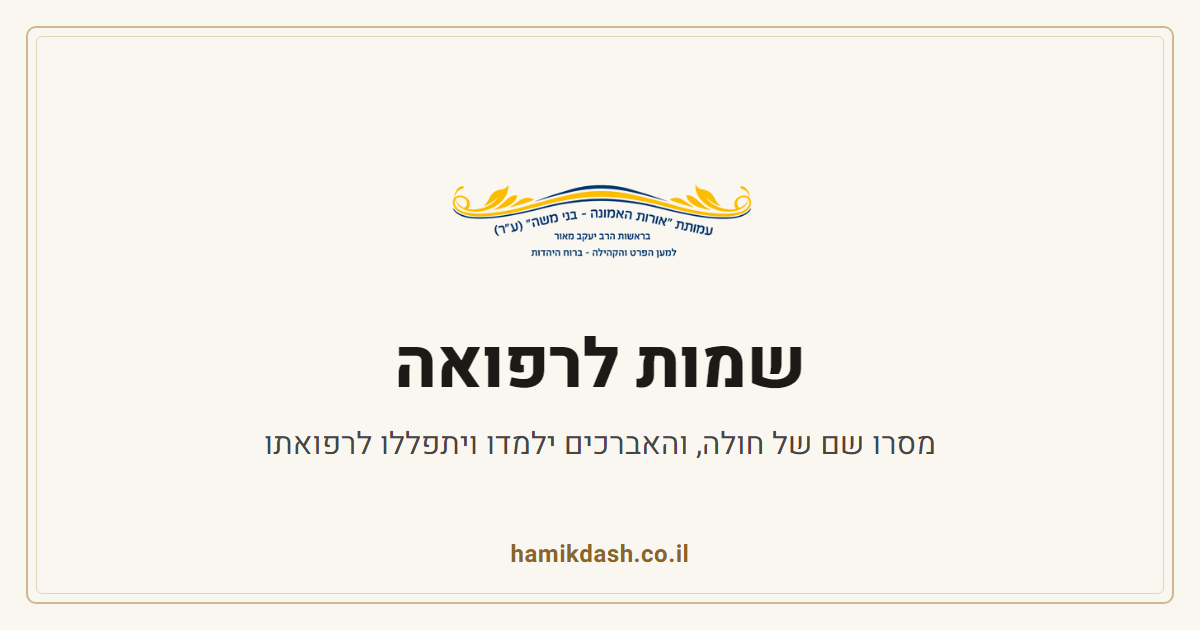
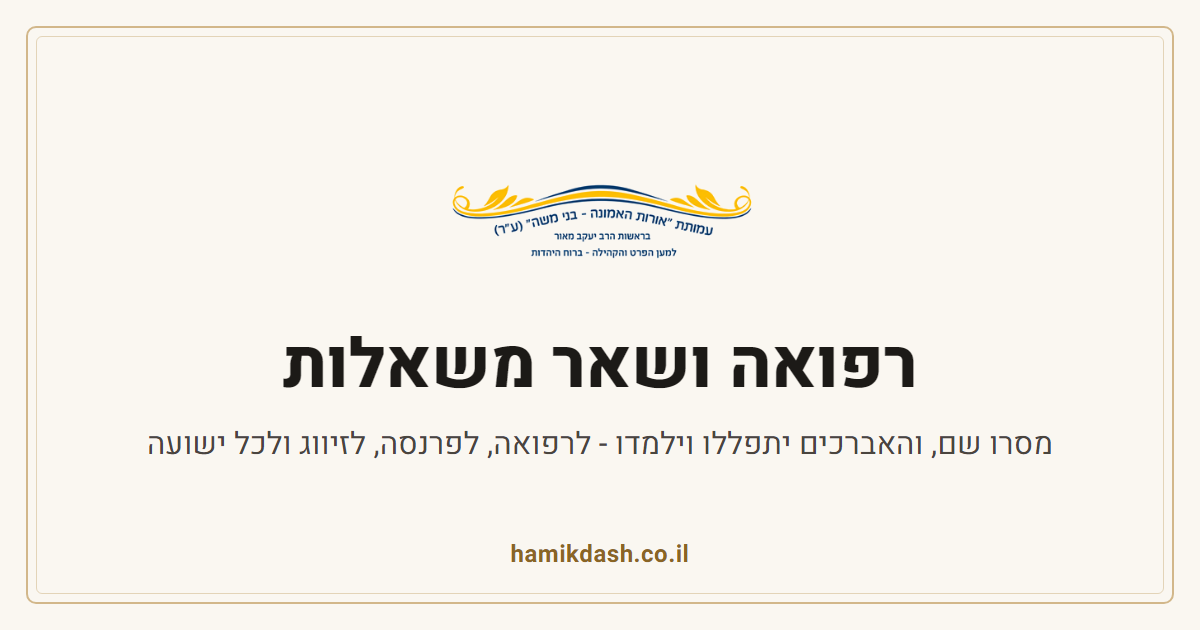
refua: rename to 'refua ve-shear mishalot' in OG image, links and mails

Changed region(s): [[0.2158, 0.5127, 0.7708, 0.6333], [0.1233, 0.6635, 0.8942, 0.7238]]

diff --git a/worker/refua.js b/worker/refua.js
@@ -445,7 +445,7 @@ function removePage(title, body) {
     `background:#fff;border:1px solid #e5ddd0;border-radius:14px;padding:28px 26px}` +
     `h1{font-size:26px;margin:0 0 14px;color:#8a6a1f}a{color:#8a6a1f}</style></head>` +
     `<body><main><h1>${title}</h1>${body}` +
-    `<p style="margin-top:26px"><a href="${PAGE}">חזרה לדף השמות לרפואה</a></p>` +
+    `<p style="margin-top:26px"><a href="${PAGE}">חזרה לדף רפואה ושאר משאלות</a></p>` +
     `</main></body></html>`,
     { status: 200, headers: { "Content-Type": "text/html; charset=utf-8" } }
   );
@@ -502,7 +502,7 @@ export default {
         if ((await hmac(env.REFUA_TOKEN_SECRET, o)) !== s)
           return removePage("הקישור אינו תקין", bad);
         return removePage("הסרת השמות שמסרתם",
-          `<p>בלחיצה על הכפתור יוסרו מרשימת הרפואה והבקשות כל השמות שמסרתם.</p>` +
+          `<p>בלחיצה על הכפתור יוסרו מרשימת רפואה ושאר משאלות כל השמות שמסרתם.</p>` +
           `<form method="post" action="${SELF}/remove?o=${esc(o)}&s=${esc(s)}">` +
           `<button type="submit" style="font:inherit;font-size:18px;font-weight:700;` +
           `background:#8a6a1f;color:#fff;border:0;border-radius:10px;padding:12px 22px;` +
@@ -529,7 +529,7 @@ export default {
         await RENEW.clearSubmitter(env, o);
         await sendMail(env, {
           to: TO, replyTo: REPLY_TO_OWNER,
-          subject: "הסרה מרשימת הרפואה (קישור מהמייל)",
+          subject: "הסרה מרשימת רפואה ושאר משאלות (קישור מהמייל)",
           html: `<div dir="rtl">הוסרו ${before.length - kept.length} שמות של מוסר ${esc(o)}.</div>`,
         });
         return removePage("השמות הוסרו", `<p>הוסרו מהרשימה, ותודה שהודעתם. ` +
@@ -621,7 +621,7 @@ export default {
     const okNotice = await sendMail(env, {
       to: TO,
       replyTo: req.email,
-      subject: (isEmpty ? "הסרה מרשימת הרפואה: " : isFix ? "תיקון רשימת רפואה: " : "שמות לרפואה: ") +
+      subject: (isEmpty ? "הסרה מרשימת רפואה ושאר משאלות: " : isFix ? "תיקון רשימת רפואה ושאר משאלות: " : "רפואה ושאר משאלות: ") +
         `${req.name}${isEmpty ? "" : " (" + cholim.length + ")"}`,
       html: rtlEmail(ownerNoticeHtml(req, cholim, isFix, isEmpty)),
     });
@@ -641,8 +641,8 @@ export default {
     await sendMail(env, {
       to: req.email,
       replyTo: REPLY_TO_OWNER,
-      subject: isEmpty ? "השמות הוסרו מרשימת הרפואה"
-             : isFix ? "הרשימה עודכנה" : "קיבלנו את השמות לרפואה",
+      subject: isEmpty ? "השמות הוסרו מרשימת רפואה ושאר משאלות"
+             : isFix ? "הרשימה עודכנה" : "קיבלנו את השמות - רפואה ושאר משאלות",
       html: rtlEmail(thanksHtml(req.name, cholim, isFix, isEmpty, await removeUrlFor(env, ownerKey),
         await RENEW.editUrlFor(env, ownerKey))),
     });

diff --git a/worker/tefilot.js b/worker/tefilot.js
@@ -446,7 +446,7 @@ function removePage(title, body) {
     `background:#fff;border:1px solid #e5ddd0;border-radius:14px;padding:28px 26px}` +
     `h1{font-size:26px;margin:0 0 14px;color:#8a6a1f}a{color:#8a6a1f}</style></head>` +
     `<body><main><h1>${title}</h1>${body}` +
-    `<p style="margin-top:26px"><a href="${PAGE}">חזרה לדף השמות לרפואה</a></p>` +
+    `<p style="margin-top:26px"><a href="${PAGE}">חזרה לדף רפואה ושאר משאלות</a></p>` +
     `</main></body></html>`,
     { status: 200, headers: { "Content-Type": "text/html; charset=utf-8" } }
   );
@@ -506,7 +506,7 @@ export default {
         await RENEW.clearSubmitter(env, o);
         await sendMail(env, {
           to: TO, replyTo: REPLY_TO_OWNER,
-          subject: "הסרה מרשימת הרפואה (קישור מהמייל)",
+          subject: "הסרה מרשימת רפואה ושאר משאלות (קישור מהמייל)",
           html: `<div dir="rtl">הוסרו ${before.length - kept.length} שמות של מוסר ${esc(o)}.</div>`,
         });
         return removePage("השמות הוסרו", `<p>הוסרו מהרשימה, ותודה שהודעתם. ` +
@@ -604,7 +604,7 @@ export default {
     const okNotice = await sendMail(env, {
       to: TO,
       replyTo: req.email,
-      subject: (isEmpty ? "הסרה מרשימת הרפואה: " : isFix ? "תיקון רשימת רפואה: " : "שמות לרפואה: ") +
+      subject: (isEmpty ? "הסרה מרשימת רפואה ושאר משאלות: " : isFix ? "תיקון רשימת רפואה ושאר משאלות: " : "רפואה ושאר משאלות: ") +
         `${req.name}${isEmpty ? "" : " (" + bakashot.length + ")"}`,
       html: rtlEmail(ownerNoticeHtml(req, bakashot, isFix, isEmpty)),
     });
@@ -624,8 +624,8 @@ export default {
     await sendMail(env, {
       to: req.email,
       replyTo: REPLY_TO_OWNER,
-      subject: isEmpty ? "השמות הוסרו מרשימת הרפואה"
-             : isFix ? "הרשימה עודכנה" : "קיבלנו את השמות לרפואה",
+      subject: isEmpty ? "השמות הוסרו מרשימת רפואה ושאר משאלות"
+             : isFix ? "הרשימה עודכנה" : "קיבלנו את השמות - רפואה ושאר משאלות",
       html: rtlEmail(thanksHtml(req.name, bakashot, isFix, isEmpty, await removeUrlFor(env, ownerKey),
         await RENEW.editUrlFor(env, ownerKey))),
     });

diff --git a/chagim/yom-kippur/hachanot.html b/chagim/yom-kippur/hachanot.html
@@ -113,7 +113,7 @@
       <strong><a href="/pidyon-nefesh/">לפדיון נפש</a></strong></p>
       <p><strong>לרשום את שמות הנפטרים.</strong> כל מי שיקר ללבך ואינו בחיים. יש עניין גדול ביום כיפור להזכיר את השמות באזכרה של ליל כיפור - לרשום את כולם על דף מראש. ואפשר גם למלא את השמות באתר, ואז בכל שנה, כשמגיע תאריך היארצייט, מגיעה אליך הודעה מראש.<br>
       <strong><a href="/neshama.html">לרישום שמות נפטרים ותאריכי פטירה</a>
-<a href="/refua.html">שמות לרפואה</a></strong></p>
+<a href="/refua.html">רפואה ושאר משאלות</a></strong></p>
       <p><strong>ומה שקשור כבר לסוכות</strong> - שני דברים שחייבים להתחיל לפני כיפור, מסיבה שנסביר מיד: <strong>קניית ארבעת המינים</strong>, ו<strong>התחלת בניית הסוכה</strong>.</p>
       <p><strong>למה זה דחוף השנה במיוחד:</strong> בין מוצאי יום הכיפורים לכניסת סוכות יש <strong>ארבעה ימי חול בלבד</strong> - שלישי, רביעי, חמישי, ושישי עד הצהריים. ערב סוכות השנה הוא <strong>ערב שבת</strong>, ויום טוב הראשון חל בשבת. כלומר הסוכה חייבת להיות גמורה עד צהרי יום שישי 25.9, וארבעת המינים חייבים להיות בבית לפני כן. מי שיתחיל רק אחרי כיפור - יילחץ.<br>
       <strong><a href="/chagim/sukkot/">כל ההכנות לסוכות, בדף נפרד</a></strong></p>

diff --git a/worker/renewal.js b/worker/renewal.js
@@ -84,7 +84,7 @@ export function makeRenewal(cfg) {
   const isRefua = cfg.kind === "refua";
   const SITE = "https://hamikdash.co.il";
   const T = isRefua
-    ? { what: "השמות", list: "רשימת הרפואה", bless: "ולרפואה שלמה במהרה",
+    ? { what: "השמות", list: "רשימת רפואה ושאר משאלות", bless: "ולרפואה שלמה במהרה",
         healed: "ברוך השם, הבריא/ה", healedShort: "הבריא" }
     : { what: "השמות והבקשות", list: "רשימת הבקשות", bless: "ושהבקשה תתקבל במהרה",
         healed: "ברוך השם, הבקשה התקבלה", healedShort: "הבקשה התקבלה" };
@@ -112,7 +112,7 @@ export function makeRenewal(cfg) {
     const keep = await renewUrl(env, o, "keep"), remove = await renewUrl(env, o, "remove");
     const edit = await editUrlFor(env, o);
     return {
-      subject: isRefua ? "האם להשאיר את השמות ברשימת הרפואה?" : "האם להשאיר את הבקשות ברשימה?",
+      subject: isRefua ? "האם להשאיר את השמות ברשימת רפואה ושאר משאלות?" : "האם להשאיר את הבקשות ברשימה?",
       html: WRAP +
         `<p>שלום ${esc(rec.name)},</p>` +
         `<p>מסרתם לתפילה את ${T.what} האלה:</p>` + listHtml(names(rec)) +

diff --git a/refua.html b/refua.html
@@ -9,7 +9,7 @@
 <meta property="og:description" content="מסרו שם, ואברכי הכולל יתפללו וילמדו עבורו - לרפואה, לפרנסה, לזיווג ולכל ישועה. בלי תשלום.">
 <meta property="og:type" content="website">
 <meta property="og:locale" content="he_IL">
-<meta property="og:image" content="https://hamikdash.co.il/assets/og/refua.png">
+<meta property="og:image" content="https://hamikdash.co.il/assets/og/refua.png?v=2">
 <meta property="og:image:width" content="1200">
 <meta property="og:image:height" content="630">
 <meta property="og:site_name" content="אורות האמונה - בני משה">

diff --git a/index.html b/index.html
@@ -70,7 +70,7 @@
   <h2>לשלוח שם לעילוי נשמה</h2>
   <p>אברכי הכולל לומדים ומתפללים לעילוי נשמת מי שנמסר לנו, נאמרים קדישים ואשכבות, ונר נשמה דולק כל השנה. בלי תשלום ובלי התחייבות.</p>
   <a href="/neshama.html" class="btn btn-lg">למסירת שם</a>
-  <a href="/refua.html">שמות לרפואה</a>
+  <a href="/refua.html">רפואה ושאר משאלות</a>
 </div>
 
 <div class="band">
